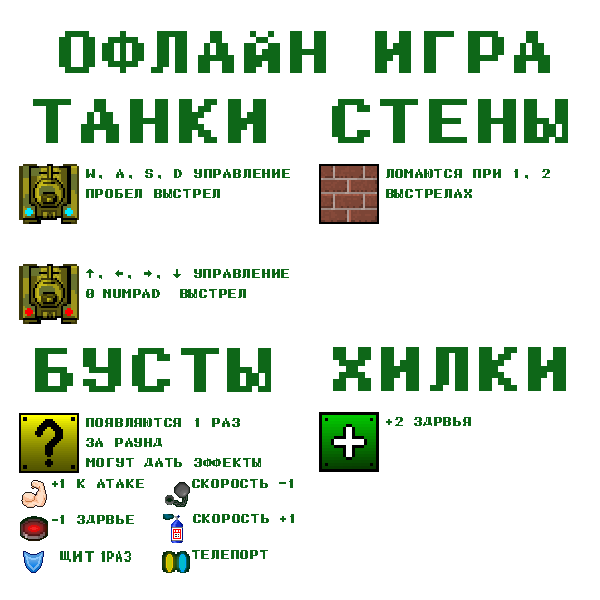
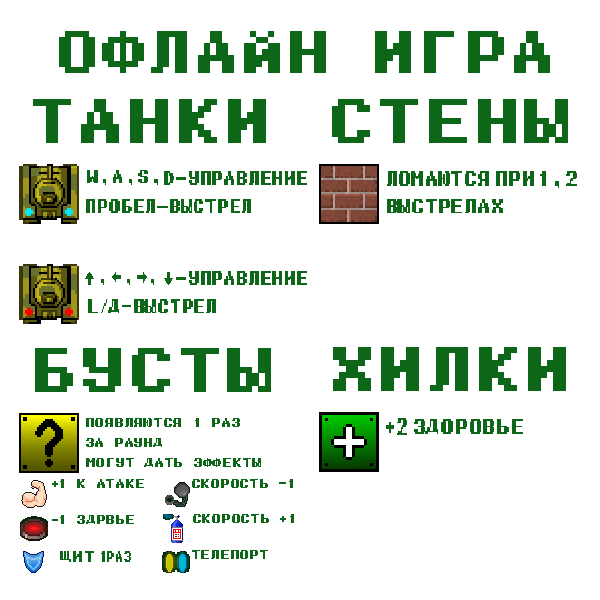
online in off game, but need to fix, tanchiki commit

diff --git a/tanchiki.py b/tanchiki.py
@@ -2,6 +2,8 @@ import pygame
 import random as ran
 import sqlite3
 import time
+import json
+import socket
 pygame.init()
 
 # upload music and sounds
@@ -47,7 +49,8 @@ effects_img = [pygame.image.load('images/tanchiki/effect_shield.png').convert_al
 main_disp_img = pygame.image.load('images/tanchiki/main_disp.png').convert_alpha()
 medkit_img = pygame.image.load('images/tanchiki/medkit.png').convert_alpha()
 nastr_spravka_bg_img = pygame.image.load('images/tanchiki/nastroiki_spravka.png').convert_alpha()
-spravka_img = pygame.image.load('images/tanchiki/spravka.png').convert_alpha()
+spravka_off_img = pygame.image.load('images/tanchiki/spravka.png').convert_alpha()
+spravka_onl_img = pygame.image.load('images/tanchiki/spravka_online.png').convert_alpha()
 tank_img, tank1_img = pygame.image.load('images/tanchiki/tank.png').convert_alpha(), \
     pygame.image.load('images/tanchiki/tank1.png').convert_alpha()
 tank_razr_img, tank1_razr_img = pygame.image.load('images/tanchiki/tank1_razr.png').convert_alpha(),\
@@ -60,6 +63,7 @@ tank2_hp = pygame.image.load('images/tanchiki/tank2_hp.png').convert_alpha()
 
 # upload fonts
 font_schet = pygame.font.Font('Fonts/Intro.ttf', 15)
+font_st_disp_errors = pygame.font.Font('Fonts/PsychicForce2012Monospaced.ttf', 20)
 font_st_disp = pygame.font.Font('Fonts/PsychicForce2012Monospaced.ttf', 40)
 font_sprav_main_nastr = pygame.font.Font('Fonts/PsychicForce2012Monospaced.ttf', 120)
 
@@ -430,6 +434,21 @@ class Settings:
                 scr.blit(zvuk_off_img, (540, 300 + i_dr * option_y_padding))
 
 
+class Spravka:
+    def __init__(self):
+        self.tek_index = 0
+        self.spis_imgs = [spravka_off_img, spravka_onl_img]
+
+    def switch(self, direct):
+        self.tek_index += direct
+        self.tek_index %= 2
+
+    def drawi(self):
+        scr.blit(self.spis_imgs[self.tek_index], (0, 0))
+        txt_page = font_st_disp.render(str(self.tek_index + 1), True, (14, 103, 24))
+        scr.blit(txt_page, (560, 560))
+
+
 class GamePause:
     def __init__(self):
         self.option_menu_txt = []
@@ -492,9 +511,9 @@ def start_game():
     switch_volume()
 
 
-# def start_online_game():
-#     global f_online_game
-#     f_online_game = True
+def start_online_game():
+    global f_online_game
+    f_online_game = True
 
 
 def switch_game_pause():
@@ -539,15 +558,18 @@ perezapusk = False
 f_spravka = False
 f_nastroiki = False
 obsh_vol = True
+find_room = True
+txt_error_online_game = ''
 cur.execute('SELECT * FROM tanks')
 schet = cur.fetchall()
 menu.append_option('НАЧАТЬ ИГРУ', lambda: start_game())
-# menu.append_option('Сетевая игра (бета)', lambda: start_online_game())
+menu.append_option('Сетевая игра', lambda: start_online_game())
 menu.append_option('справка', lambda: spravka())
 menu.append_option('настройки', lambda: nastroiki())
 menu.append_option('ВЫЙТИ ИЗ ИГРЫ', lambda: quit_game())
 settings = Settings()
 settings.append_option('ЗВУК', lambda: switch_volume())
+spravka_cl = Spravka()
 game_pause_cls = GamePause()
 game_pause_cls.append_option('продолжить', lambda: switch_game_pause())
 game_pause_cls.append_option('звук', lambda: switch_volume(), True)
@@ -562,6 +584,12 @@ while st_ekran:
             conn.close()
             st_ekran = False
         elif event.type == pygame.KEYDOWN:
+            if event.key == pygame.K_RIGHT:
+                if f_spravka:
+                    spravka_cl.switch(1)
+            if event.key == pygame.K_LEFT:
+                if f_spravka:
+                    spravka_cl.switch(-1)
             if event.key == pygame.K_UP:
                 if f_nastroiki:
                     settings.switch(-1)
@@ -582,9 +610,8 @@ while st_ekran:
                 f_nastroiki = False
     if f_spravka:
         scr.blit(nastr_spravka_bg_img, (0, 0))
-        scr.blit(spravka_img, (0, 0))
         txt_sprv = font_st_disp.render('справка', True, (14, 103, 24))
-        scr.blit(txt_sprv, (W // 2 - txt_sprv.get_width() // 2, 0))
+        spravka_cl.drawi()
     elif f_nastroiki:
         scr.blit(main_disp_img, (0, 0))
         txt_settings = font_sprav_main_nastr.render('Settings', True, (255, 255, 255))
@@ -595,6 +622,8 @@ while st_ekran:
         menu.drawi(335, 300, 50)
         txt_name = font_sprav_main_nastr.render('TANCHIKI', True, (255, 255, 255))
         scr.blit(txt_name, (W // 2 - txt_name.get_width() // 2, 0))
+        txt_error = font_st_disp_errors.render(txt_error_online_game, True, (0, 0, 0))
+        scr.blit(txt_error, (590 - txt_error.get_width(), 560))
     if not perezapusk:
         sound_shoot.set_volume(0)
         sound_uncht_tanka.set_volume(0)
@@ -830,3 +859,115 @@ while st_ekran:
 
             pygame.display.update()
             clock_.tick(FPS)
+    data_usl = 0
+    while f_online_game:
+        if find_room:
+            for i in [8000, 8001, 8002, 8003, 8004]:
+                sock = socket.socket(socket.AF_INET, socket.SOCK_STREAM)
+                sock.setsockopt(socket.IPPROTO_TCP, socket.TCP_NODELAY, 1)
+                try:
+                    sock.connect(('localhost', i))
+                    data = sock.recv(1024).decode()
+                    print(data)
+                    if data == 'F':
+                        sock.close()
+                        continue
+                    else:
+                        sockt = sock
+                        find_room = False
+                        break
+                except ConnectionRefusedError as e:
+                    if e.errno == 10061:
+                        txt_error_online_game = 'Сервер временно не работает'
+                        f_online_game = False
+                        break
+        try:
+            data = sockt.recv(1024).decode()
+            print(data)
+        except NameError:
+            pass
+        try:
+            if int(data) < 2:
+                for event in pygame.event.get():
+                    if event.type == pygame.QUIT:
+                        f_online_game = False
+                        st_ekran = False
+                scr.blit(pygame.image.load('images/tanchiki/wait_for_players.png'), (0, 0))
+                pygame.display.update()
+            elif int(data) == 2:
+                data_usl = 2
+        except ValueError:
+            pass
+        except NameError:
+            pass
+        if f_online_game and data_usl == 2:
+            print('fdsfsd')
+            W, H = 600, 600
+            FPS = 30
+
+            pygame.init()
+            screen = pygame.display.set_mode((W, H))
+            clock_ = pygame.time.Clock()
+
+            TYPES_OF_IMAGES = {1: [tank_img, tank1_img], 2: wall_img, 3: bullet_img}
+
+
+            def find_inf(s):
+                otkr = None
+                s = s.decode('utf-8')
+                for i in range(len(s)):
+                    if s[i] == '[':
+                        otkr = i
+                    if s[i] == ']' and otkr is not None:
+                        zakr = i
+                        res = s[otkr + 1: zakr]
+                        return '[' + res + ']'
+                return '[]'
+
+
+            old_data = []
+            runnin = True
+            while runnin:
+                message = '<0,0>'
+                message_v = '0'
+                for event in pygame.event.get():
+                    if event.type == pygame.QUIT:
+                        runnin = False
+                        f_online_game = False
+                        st_ekran = False
+                    elif event.type == pygame.MOUSEBUTTONDOWN:
+                        if event.button == 1:
+                            message = '<2>'
+                            message_v = '2'
+
+                # считываем команду
+                keys = pygame.key.get_pressed()
+                if keys[pygame.K_a]:
+                    message = f'<-1,0,{message_v}>'
+                elif keys[pygame.K_s]:
+                    message = f'<0,1,{message_v}>'
+                elif keys[pygame.K_w]:
+                    message = f'<0,-1,{message_v}>'
+                elif keys[pygame.K_d]:
+                    message = f'<1,0,{message_v}>'
+                sock.send(message.encode())
+                # получаем изменения
+                data = sock.recv(2 ** 24)
+                data = json.loads(find_inf(data))
+                if data:
+                    old_data = data
+
+                # рисуем все
+                screen.blit(bg, (0, 0))
+                for i in old_data:
+                    n_cl, num_t, x, y, pos = i.values()
+                    if n_cl == 1:
+                        screen.blit(pygame.transform.rotate(TYPES_OF_IMAGES[n_cl][num_t - 1], (pos - 1) * 90), (x, y))
+                    if n_cl == 2:
+                        screen.blit(TYPES_OF_IMAGES[n_cl], (x, y))
+                    if n_cl == 3:
+                        screen.blit(pygame.transform.rotate(TYPES_OF_IMAGES[n_cl], (pos - 1) * 90), (x, y))
+
+                pygame.display.update()
+                clock_.tick(FPS)
+

diff --git a/SERVER_ONLINE.py b/SERVER_ONLINE.py
@@ -6,12 +6,6 @@ import time
 import pygame
 import json
 
-# main_socket = socket.socket(socket.AF_INET, socket.SOCK_STREAM)
-# main_socket.setsockopt(socket.IPPROTO_TCP, socket.TCP_NODELAY, 1)
-# main_socket.bind(('localhost', 10000))
-# main_socket.setblocking(False)
-# main_socket.listen(2)
-
 W, H = 600, 600
 FPS = 30
 
@@ -242,6 +236,8 @@ def foo(m_socket, port):
                     tanks.add(tank_2)
                     players.append(tank_2)
                 slovar_of_conns[port] += 1
+                for pl in players:
+                    pl.sock.send(str(len(tanks)).encode())
             else:
                 new_sock.send('F'.encode())
         except:
@@ -256,7 +252,6 @@ def foo(m_socket, port):
                     player.update(0, 0, *h)
                 else:
                     player.update(*h)
-
             except:
                 pass
         # обработка команд от челов
@@ -264,19 +259,22 @@ def foo(m_socket, port):
         # отправляем изменения челам
         for player in players:
             try:
-                sprite_data = []
-                for sprite in all_sprites:
-                    sprite_dict = {
-                        'class': sprite.name_class,
-                        'number_tank': sprite.num,
-                        'x': sprite.rect.x,
-                        'y': sprite.rect.y,
-                        'pos': sprite.pos
-                    }
-                    sprite_data.append(sprite_dict)
-                mesg = json.dumps(sprite_data).encode('utf-8')
-                player.sock.send(mesg)
-                player.errors = 0
+                if len(tanks) == 2:
+                    sprite_data = []
+                    for sprite in all_sprites:
+                        sprite_dict = {
+                            'class': sprite.name_class,
+                            'number_tank': sprite.num,
+                            'x': sprite.rect.x,
+                            'y': sprite.rect.y,
+                            'pos': sprite.pos
+                        }
+                        sprite_data.append(sprite_dict)
+                    mesg = json.dumps(sprite_data).encode('utf-8')
+                    player.sock.send(mesg)
+                    player.errors = 0
+                else:
+                    player.sock.send(str(len(tanks)).encode())
             except:
                 player.errors += 1
                 if player.errors >= 150:

diff --git a/CLIENT_.py b/CLIENT_.py
@@ -4,21 +4,17 @@ import pygame
 
 sock = socket.socket(socket.AF_INET, socket.SOCK_STREAM)
 sock.setsockopt(socket.IPPROTO_TCP, socket.TCP_NODELAY, 1)
-# sock.connect(('localhost', 8001))
-for i in [8000, 8001, 8002]:
+for i in [8000, 8001, 8002, 8003, 8004]:
     sock = socket.socket(socket.AF_INET, socket.SOCK_STREAM)
     sock.setsockopt(socket.IPPROTO_TCP, socket.TCP_NODELAY, 1)
-    try:
-        sock.connect(('localhost', i))
-        data = sock.recv(1024).decode()
-        print(data)
-        if data == 'F':
-            sock.close()
-            continue
-        else:
-            break
-    except:
+    sock.connect(('localhost', i))
+    data = sock.recv(1024).decode()
+    print(data)
+    if data == 'F':
+        sock.close()
         continue
+    else:
+        break
 
 W, H = 600, 600
 FPS = 30
